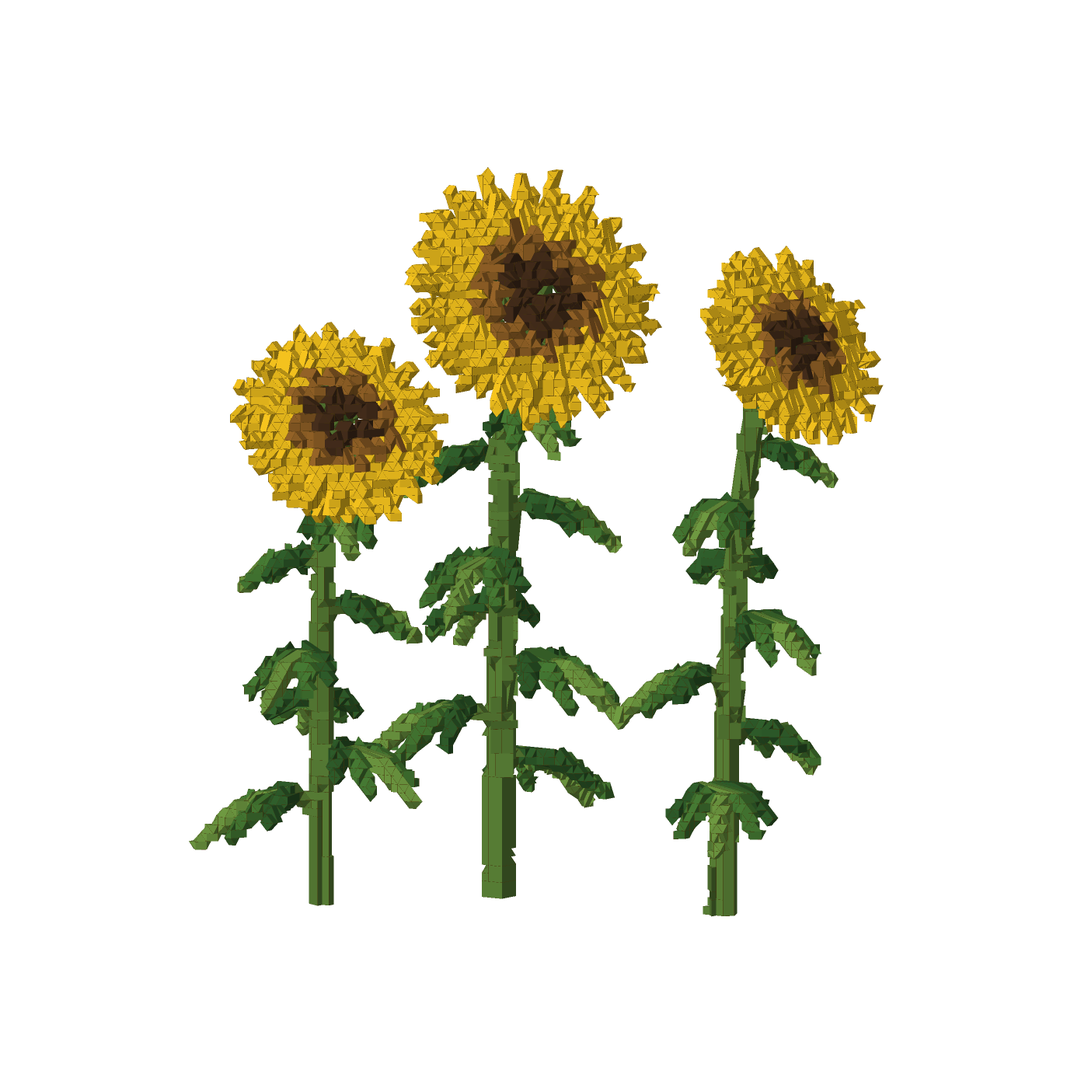
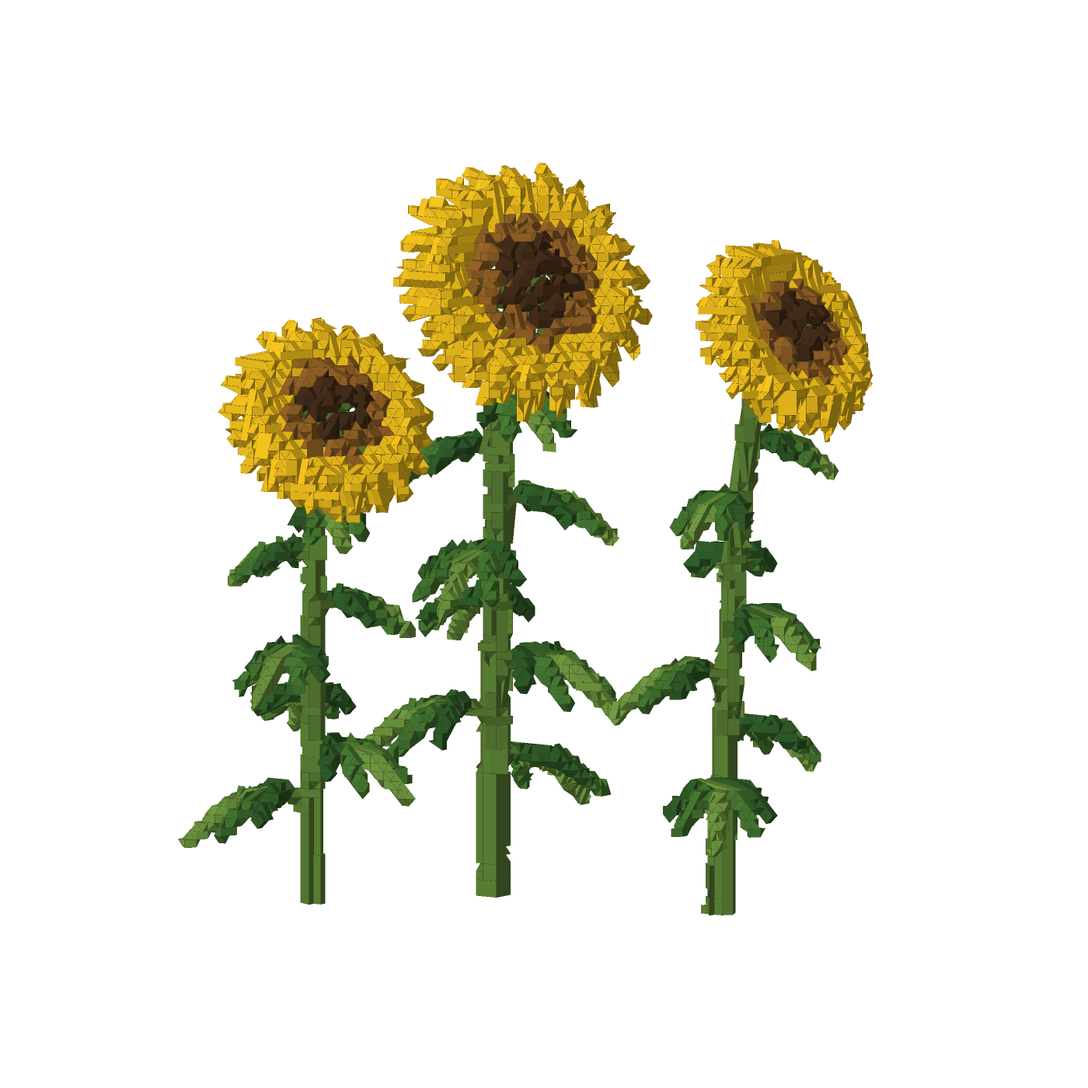
Docs, tool text and pictures for the new plants; the rose's picture gone

Changed region(s): [[0.1536, 0.1536, 0.8293, 0.86]]

diff --git a/core/src/tree.rs b/core/src/tree.rs
@@ -1474,7 +1474,7 @@ fn hedge(g: &mut Grown, tree: &Tree, height: f64, spread: f64, long: f64) {
         let (far, wide) = ((long - r - 1.7).max(0.0), (spread - r - 1.7).max(0.0));
         let at = DVec3::new(at.x.clamp(-far, far), at.y.clamp(-wide, wide), at.z.clamp(foot + r * 0.4, height - r * 0.8));
         g.leaves(at, DVec3::new(r, r, r * 0.8));
-        if tree.extras && g.unit() < 0.6 {
+        if tree.extras && g.unit() < 0.35 {
             berries(g, at, r * 0.8, at - outward * mass);
         }
     };
@@ -1934,7 +1934,7 @@ fn boxwood(g: &mut Grown, tree: &Tree, height: f64, spread: f64) {
         let at = heart + DVec3::new(level * way.cos(), level * way.sin(), up) * dome * (1.0 - loose * g.between(0.0, 0.3));
         let r = mass * g.between(0.75, 1.2);
         g.leaves(DVec3::new(at.x, at.y, at.z.max(r * 0.8)), DVec3::new(r, r, r * 0.8));
-        if tree.extras && g.unit() < 0.6 {
+        if tree.extras && g.unit() < 0.35 {
             berries(g, DVec3::new(at.x, at.y, at.z.max(r * 0.8)), r * 0.8, heart);
         }
     }

diff --git a/docs/algorithm.md b/docs/algorithm.md
@@ -1972,8 +1972,9 @@ A plant is one solid, fitted cell by cell (section 7.1) and coloured part
 by part ([core/src/tree.rs](../core/src/tree.rs)). The solid is the union
 of several thousand simple parts: tapered round branches, the eight-sided
 lengths of a palm's trunk, and balls of leaves. There are three trees (a
-pine, a palm and an oak), two bushes (a boxwood and a rose) and two
-flowers (a sunflower and a tulip). Each is grown by a method of its own,
+pine, a palm, an oak and a beech), three bushes (a boxwood, a hedge of it
+and a hydrangea), four flowers (a peony, a sunflower, a tulip and
+petunias) and a stand of reeds. Each is grown by a method of its own,
 because they differ in how they grow and a single rule general enough for
 all of them describes none of them closely. The trees come first below,
 and the bushes and flowers after them reuse their parts.
@@ -2209,9 +2210,36 @@ influences every branch near it, so changing one setting grows a
 different tree. Here a seed is one skeleton, and the height, spread and
 foliage can be changed while the tree stays recognisably itself.
 
+#### The beech, and bare trees
+
+<img src="images/tree-beech.png" width="330" alt="A beech in bricks: a smooth grey trunk carrying on up through a tall, dense crown of flat layers of leaves"> <img src="images/tree-beech-bare.png" width="330" alt="The same beech bare: the grey trunk and limbs ending in many short forking twigs">
+
+A beech is the oak's rule with other numbers
+([*Fagus sylvatica*](https://plants.ces.ncsu.edu/plants/fagus-sylvatica/common-name/european-beech)).
+Its smooth grey trunk carries on up through the crown as the thickest
+limb, where an oak's ends at the first fork. Its limbs wander half as
+much, are not pulled down, and leave the trunk at 43 to 63 degrees. Its
+crown is an oval about three quarters as wide as the tree is tall, widest
+a third of the way up. Its tufts of leaves are flatter, and branches up to
+three cells thick carry them, where only an oak's thinnest do, so the
+crown closes. The numbers are the `Habit` of each tree in
+[core/src/tree.rs](../core/src/tree.rs).
+
+**Bare** takes the leaves off an oak or a beech. A tree in leaf ends its
+branches where they are one cell thick, and the leaves hide the stop.
+Bare, each stop would be a stump. Every branch end is therefore carried
+on in twigs: a shoot that forks into two shorter ones, and those again,
+two forks deep on an oak and three on a beech, where a beech also carries
+its shoot straight on between the two. A twig cannot be thinner than a
+branch end, one cell being the least that is built, so twigs are told from
+branches by their number and shortness. A beech's are many, straight and
+close-angled, and an oak's fewer and crooked. The skeleton under them is
+the tree's own: the same seed bare and in leaf is the same tree, limb for
+limb.
+
 #### The bushes
 
-<img src="images/plant-boxwood.png" width="330" alt="A boxwood bush in bricks: a dense rounded mound of lumpy green foliage, lighter on top, on several short stems"> <img src="images/plant-rose.png" width="330" alt="A rose bush in bricks: arching green canes with tufts of leaves and pink blooms with yellow hearts on the outside">
+<img src="images/plant-boxwood.png" width="330" alt="A boxwood bush in bricks: a dense rounded mound of lumpy green foliage, lighter on top, on several short stems">
 
 A boxwood is a dense rounded evergreen, about as tall as it is wide, on
 several stems ([*Buxus sempervirens*](https://plants.ces.ncsu.edu/plants/buxus-sempervirens/)).
@@ -2228,17 +2256,42 @@ shrub left to grow. Builders of brick bushes get the same effect by
 turning each layer of leaves against the one below
 ([leafy bush tutorial](https://fullplatebuilds.com/2018/12/07/leafy-bush-tutorial/)).
 
-A rose is canes: long shoots from the ground that climb and then arch
-over, with the flowers at the ends of the canes and of their side shoots
-([roses](https://plants.ces.ncsu.edu/plants/rosa/)). A cane is a palm's
-frond stood on the ground. It leaves at 6 to 26 degrees from upright and
-turns over by a further $`\beta\,x^{1.6}`$ along its length, with
-$`\beta`$ set by **Arch of the canes**. The canes are set round the
-middle by the golden angle, grown at no particular size and stretched to
-the height and spread asked for. A tuft of leaves sits every few cells
-along the outer two thirds of a cane. A bloom sits on the outward side of
-some tufts and of every tip: a ball of petals about five cells across with
-a small heart of another colour facing outwards.
+A hedge is the boxwood clipped to a wall. It is a kind of its own and
+not a setting of the boxwood, because a bush is round and has a number of
+stems, and a hedge has a length and is a row of plants. Its outline is a
+long box, a little narrower at the top than at the foot, which is the
+"batter" a hedge is clipped to so that light reaches its base
+([pruning hedges](https://www.rhs.org.uk/plants/types/hedges/pruning-hedges)).
+The same tufts of leaves are set over the top, the two sides and the two
+ends in rows, each row half a step along from the last, and each tuft is
+set back by a random amount that **Looseness** scales: at none the hedge
+is freshly clipped, at full it has grown out. The inside is filled, and
+each plant of the row shows two or three stems under the leaves. The
+length is the form's thickness stretched along x, so a hedge of any length
+has the same texture all along it and takes as long to build as its
+surface is large.
+
+**Berries** puts small balls of another colour number just proud of the
+tufts of a boxwood or a hedge. A box has no berries: its fruit is a small
+brown capsule
+([*Buxus sempervirens*](https://plants.ces.ncsu.edu/plants/buxus-sempervirens/)).
+These are a holly's or a cotoneaster's, offered because a hedge in berry
+is wanted in a build.
+
+A hydrangea is a mophead
+([*Hydrangea macrophylla*](https://plants.ces.ncsu.edu/plants/hydrangea-macrophylla/)):
+a rounded shrub of broad leaves with large domed heads of flowers at the
+ends of its shoots. The shrub is the boxwood's with larger, fewer tufts.
+The heads stand over the upper two thirds of the dome, a golden angle
+apart. A head is not a ball. Its florets are set over a cap by Vogel's
+model, and each floret is four small balls in a cross about a middle of
+another colour, lying on the cap, because a real floret has four
+petal-like sepals. Four cells is the least a cross can be across, so a
+head has a few dozen florets where the plant's has some five hundred.
+The florets of a head take two colour numbers at random, which the sets
+paint as two tones of blue, pink or white, or as blue running to pink.
+
+<img src="images/plant-hedge.png" width="330" alt="A clipped box hedge in bricks, five times as long as it is thick, with red berries over its top and sides"> <img src="images/plant-hydrangea.png" width="330" alt="A hydrangea in bricks: a rounded bush of leaves on a few stems, carrying domed flower heads of small blue and pink florets">
 
 #### The flowers
 
@@ -2263,7 +2316,11 @@ golden angle on from the last, which packs them evenly at any size of
 head. Rings of seeds, the obvious alternative, leave gaps between the
 rings and line the seeds up in spokes. The inner seeds have one colour
 number and the outer ring another, the disc bulges a little in the middle,
-and its back is a coarser plate of the same pattern in green. Round the
+and its back is a coarser plate of the same pattern in green. The disc is
+a cushion a third as high in the middle as it is wide across its radius,
+and each petal is cupped forward where it leaves the disc and laid back at
+its tip, so the head has depth and a rolled rim. A flat disc with flat
+petals, which it was at first, read as a plate on a stick. Round the
 disc are the ray florets, the petals: 13, 21 or 34 of them by the size of
 the head, Fibonacci numbers as a real head's are, with a second row behind
 and between the first. Each petal is two round ribs side by side at its
@@ -2288,6 +2345,58 @@ outwards along their length.
 A clump of either flower is several plants from one seed. They stand
 round the first by Vogel's model again, each at its own height between
 60% and 96% of the tallest.
+
+A peony is the double kind
+([*Paeonia lactiflora*](https://en.wikipedia.org/wiki/Paeonia_lactiflora);
+[its flower forms](https://americanpeonysociety.org/?p=35)): a few broad
+guard petals outside, and inside them round after round of narrower ones.
+It opens from a hard round bud, through a soft ball, to a full-blown bowl.
+The petals are set by the golden angle, the innermost first, so that no
+petal stands behind another in any round. The petal numbered $`k`$ of
+$`N`$ has the place $`t = (k + \tfrac12)/N`$, 0 for the innermost and 1
+for a guard petal. It leaves the heart leaning out from the bloom's axis
+by $`\lambda`$ and curls back in by $`\kappa`$ along its length:
+
+```math
+\lambda = 0.25 + 0.5\,t + o\,(0.2 + 0.95\,t^{1.3}), \qquad \kappa = \left(1 - o\,(0.35 + 0.6\,t)\right)(1.5 + 0.9\,t)
+```
+
+in radians, where $`o`$ is **How open the bloom is**, from 0 to 1. At
+$`o = 0`$ every petal stands nearly upright and curls over hard, and the
+bloom is a ball. At $`o = 1`$ the guard petals lean right out and lie
+nearly straight, and each round inside leans and uncurls less, which is
+the bowl. One setting therefore takes the same petals from bud to full
+blown. A full bloom shows a heart of stamens in a third colour. The plant
+is a clump of stems from one crown, each with leaves of three lobed
+leaflets and one bloom.
+
+<img src="images/plant-peony.png" width="330" alt="Three pink peonies in bricks, full blown: bowls of many layered petals, darker towards the middle, on leafy stems"> <img src="images/plant-peony-bud.png" width="330" alt="The same peonies in bud: round balls of closed petals on the same stems">
+
+Petunias are a low mound of small leaves covered in funnel-shaped flowers
+([*Petunia x hybrida*](https://plants.ces.ncsu.edu/plants/petunia-x-hybrida/)).
+The flowers stand over the mound a golden angle apart, facing outwards and
+up. A flower is a short green tube, five lobes round its mouth, each
+leaning back so the face is a shallow funnel, and a throat of another
+colour number in the middle. **How far it trails** makes the mound smaller
+and sends stems out from under it along the ground, each ending in a tuft
+of leaves and a flower.
+
+#### Reeds
+
+<img src="images/plant-reeds.png" width="330" alt="A stand of bulrushes in bricks: thin green stems each with a brown sausage-shaped head and a pale spike above it, among long narrow leaves that flop at their tips"> <img src="images/plant-petunias.png" width="330" alt="A low mound of purple petunias in bricks, each flower five lobes round a dark throat, over green leaves">
+
+A stand of reeds is bulrushes
+([*Typha latifolia*](https://en.wikipedia.org/wiki/Typha_latifolia)), or
+with **Feathery plumes** the common reed
+([*Phragmites australis*](https://en.wikipedia.org/wiki/Phragmites_australis)).
+The bulrush is what a stand starts as because its brown sausage with the
+thin spike above it can be told at this size. A plume is a soft thing,
+and in bricks a soft thing is a rough lump. The stems are scattered evenly
+over an oval by Vogel's model stretched to the oval's two lengths, and
+like a hedge the stand has a length along x, for a bank. Every stem leans
+downwind by an amount of its own that **Sway** scales. The leaves spring
+low on the stem, stand nearly upright and flop outwards at the tip: the
+angle from upright grows with the cube of the way along the leaf.
 
 #### One colour for each part
 
@@ -2392,7 +2501,12 @@ At the usual sizes:
 | Palm | 120 tall, fronds 44 long | 1,149 | 16,753 | 0.36 s | 0.09 s |
 | Oak | 110 tall, 124 across | 3,283 | 40,092 | 1.1 s | 0.22 s |
 | Boxwood | 40 tall, 42 across | 1,065 | 8,513 | 0.23 s | 0.05 s |
-| Rose | 46 tall, 72 across | 533 | 7,143 | 0.16 s | 0.04 s |
+| Beech | 140 tall, 104 across | 4,293 | 48,667 | 1.2 s | 0.25 s |
+| Hedge, 72 long | 36 tall, 24 thick | 3,429 | 11,189 | 0.17 s | 0.07 s |
+| Hydrangea | 46 tall, 56 across | 1,373 | 17,227 | 0.31 s | 0.07 s |
+| Peonies, three | 56 tall | 1,057 | 3,751 | 0.19 s | 0.06 s |
+| Petunias | 20 tall, 52 across | 387 | 5,756 | 0.11 s | 0.03 s |
+| Reeds, 24 stems | 84 tall | 432 | 8,368 | 0.24 s | 0.07 s |
 | Sunflowers, three | 90 tall | 659 | 8,581 | 0.23 s | 0.06 s |
 | Tulips, five | 64 tall | 551 | 5,880 | 0.30 s | 0.10 s |
 
@@ -2813,8 +2927,9 @@ grid has an outline the two-dimensional fitter can fill.
 A tree, bush or flower is fitted cell by cell, the roughest method, so
 its trunk and limbs are stepped where a sphere's surface would be smooth,
 and its discrepancy is high (7.10). A sunflower's seeds are too few for
-its spirals to be counted, and a rose's bloom is a ball with a heart and
-has no petals of its own. Its smallest parts are two cells thick, so a
+its spirals to be counted. A hydrangea's head has a few dozen florets
+where the plant's has hundreds. A bare tree's twigs are as thick as its
+branch ends. Its smallest parts are two cells thick, so a
 tree under about 40 cells tall has room for an outline and little more.
 The leaves of an oak are balls of clusters and not leaves, and a pine's
 needles are the shoots that carry them. A tree is not its own mirror

diff --git a/docs/features.md b/docs/features.md
@@ -46,7 +46,7 @@ until you tick it.
 | **Revolve** | a profile, spun about the upright through its first point | Solid, or a shell along the profile. |
 | **Pyramid** | the middle of its base | Half its base, stretch along x and y, height; solid or a hollow tent. |
 | **Cube** | its middle, and a dot on each of its six sides | A size along each of x, y and z, in whole microbricks; solid or hollow (see [The cube](#the-cube)). |
-| **Plant** | the foot of its trunk or stem | Kind: a pine, palm or oak tree, a boxwood or rose bush, a sunflower or a tulip. Height, spread, three settings of its own and a seed (see [Plants](#plants)). |
+| **Plant** | the foot of its trunk or stem | Kind: a pine, palm, oak or beech tree; a boxwood bush, a hedge or a hydrangea; a peony, a sunflower, a tulip or petunias; reeds. Height, spread, three settings of its own and a seed (see [Plants](#plants)). |
 
 ### The cube
 
@@ -341,7 +341,8 @@ stone.
 ## Plants
 
 **Plant** grows a tree, a bush or a flower: a pine, a palm or an oak; a
-boxwood or a rose bush; sunflowers or tulips. They are one form with a
+beech; a boxwood bush, a hedge or a hydrangea; peonies, sunflowers,
+tulips or petunias; a stand of reeds. They are one form with a
 **Kind** because they are set and coloured the same way: a height, a
 spread, three settings and a seed. Each kind is grown by a method of its
 own, from the facts of how that plant grows: how they are made is in
@@ -355,11 +356,16 @@ own, from the facts of how that plant grows: how they are made is in
 | **Palm** | a coconut palm: a slender, ringed, eight-sided trunk, swollen at the foot, that leans and curves upright, and one crown of arching fronds with a row of leaflets down each side |
 | **Oak** | an oak grown in the open: a short thick trunk, flared at the foot, dividing into heavy crooked limbs that spread wide and fork again and again, with leaves in separate masses at the ends of the branches |
 | **Boxwood bush** | a dense rounded evergreen: a closed, lumpy mound of leaves on several short stems |
-| **Rose bush** | long canes from the ground that climb and arch over, with tufts of leaves along them and blooms on the outside |
+| **Beech tree** | a smooth grey trunk carrying on up through a tall, dense, oval crown of flat layers of leaves |
+| **Hedge** | the boxwood clipped to a wall of any length, a little narrower at the top, with stems showing at its foot |
+| **Hydrangea** | a rounded bush of broad leaves carrying domed heads of small four-parted florets |
+| **Peony** | a clump of leafy stems each with one bloom of many layered petals, which opens from a round bud to a full bowl |
+| **Petunias** | a low mound of leaves covered in funnel-shaped flowers with darker throats, which can trail along the ground |
+| **Reeds** | a stand of bulrushes with brown heads, or of plumed common reed, with long flopping leaves |
 | **Sunflower** | a stout stem with heart-shaped leaves and a nodding head: a disc of seeds set by the golden angle, ringed with two rows of petals |
 | **Tulip** | a cup of six petals in two rings on a bare stem, with strap-shaped leaves from the ground |
 
-<img src="images/plant-rose.png" width="330" alt="A rose bush with pink blooms"> <img src="images/plant-sunflowers.png" width="330" alt="Three sunflowers of different heights facing the same way">
+<img src="images/plant-peony.png" width="330" alt="Three pink peonies, full blown"> <img src="images/plant-sunflowers.png" width="330" alt="Three sunflowers of different heights facing the same way">
 
 Every tree has a **Height** and a **Spread** (a palm's is its **Frond
 length**), which the dot at its top and the dot at its side set too. Three
@@ -369,15 +375,28 @@ more settings mean something different for each kind.
 |---|---|---|---|---|
 | Pine | **Tiers of boughs**, 4 to 40 | **Fullness**: more boughs, wider sprays | **Droop** of the boughs | **A star and baubles** |
 | Palm | **Fronds**, 5 to 40 | **Leaflet length** | **Lean** of the trunk | **Coconuts** |
-| Oak | **Main limbs**, 2 to 7 | **Foliage**: larger masses of leaves, less sky | **Gnarl**: how crooked the limbs are | none |
-| Boxwood | **Stems**, 2 to 12 | **Density** of the canopy | **Looseness** of its outline | none |
-| Rose | **Canes**, 3 to 16 | **Leaves and blooms** | **Arch of the canes** | **In flower** |
+| Oak | **Main limbs**, 2 to 7 | **Foliage**: larger masses of leaves, less sky | **Gnarl**: how crooked the limbs are | **Bare** |
+| Boxwood | **Stems**, 2 to 12 | **Density** of the canopy | **Looseness** of its outline | **Berries** |
+| Beech | **Main limbs**, 3 to 9 | **Foliage** | **Crookedness** | **Bare** |
+| Hedge | **Plants along it**, 1 to 40 | **Density** | **Looseness**: clipped to grown out | **Berries** |
+| Hydrangea | **Flower heads**, 1 to 24 | **Leaves** | **Looseness** | none |
+| Peony | **Stems in the clump**, 1 to 9 | **Petals and leaves** | **How open the bloom is**: bud to full blown | none |
+| Petunias | **Flowers**, 3 to 80 | **Leaves** | **How far it trails** | none |
+| Reeds | **Stems**, 1 to 120 | **Leaves** | **Sway** | **Feathery plumes** |
 | Sunflower | **Flowers in the clump**, 1 to 12 | **Petal and leaf size** | **Nod of the head** | none |
 | Tulip | **Flowers in the clump**, 1 to 12 | **Leaf size** | **How open the cup is** | none |
 
-A flower's **Spread** is half the width of its head or cup, and a clump
-is as many flowers as you ask for, each its own height, standing a little
-apart.
+A flower's **Spread** is half the width of its head, cup or bloom, and a
+clump is as many flowers as you ask for, each its own height.
+
+A hedge and a stand of reeds have a **Length** as well, along X, from
+their own thickness upwards. The hedge keeps its clipped texture and its
+stems at intervals however long it is. A quarter turn about Z runs it the
+other way. There is no dot for the length yet: the slider sets it.
+
+**Bare** shows an oak or a beech without its leaves, with twigs carried
+on from every branch end. It is the same tree as in leaf. **Berries** on
+a boxwood or hedge take the seventh colour of its set.
 
 **Seed** is which plant of its kind: any whole number, each a different
 one, and the same number is always the same plant. **Another** takes the
@@ -386,8 +405,8 @@ gives without making it a different tree.
 
 **Colours** offers each kind's sets of colours: for a pine spruce green,
 under snow, blue spruce and in frost; for a palm three; for an oak summer,
-early autumn, late autumn and spring; for a rose pink, red, white, yellow
-and a hydrangea's blue; for a tulip six, one of them flamed. A tree is coloured **As the pattern
+early autumn, late autumn and spring; for a peony pink, deep red, white, coral and blush; for a hydrangea blue,
+pink, white and blue running to pink; for a tulip six, one of them flamed. A tree is coloured **As the pattern
 has it**, with a colour for each of its parts: the trunk, leaves, leaves
 in shade, new growth, limbs, the top of a pine's boughs or the rib of a
 frond or a flower's petals, and two for the extras, the blooms or the

diff --git a/docs/future-work.md b/docs/future-work.md
@@ -133,15 +133,17 @@ What remains:
 ## More plants
 
 Three trees, two bushes and two flowers are built: a pine, a palm and an
-oak, a boxwood and a rose, sunflowers and tulips, each grown by its own
+oak and a beech, a boxwood, a hedge and a hydrangea, peonies, sunflowers,
+tulips and petunias, and reeds, each grown by its own
 method ([algorithm.md](algorithm.md), section 7.10). What remains:
 
 - **More bushes.** A hedge is the boxwood's canopy held inside a box in
   place of a dome. An upright or spiky plant (a juniper, a yucca, an
   agave) needs a rule of its own, a rosette of stiff blades, which the
-  tulip's leaves are a start on. A hydrangea or rhododendron is the rose
-  with a rounder habit and its blooms in large heads at the ends of the
-  shoots.
+  tulip's leaves are a start on. A rose bush was built and taken out: its blooms were
+  balls, and a rose needs petals in a spiral, as the peony now has. A hedge
+  that turns a corner or follows a curve, and a dot to drag a hedge's
+  length by, are not there.
 - **More flowers.** A daisy is a small sunflower. A lily or a daffodil
   needs a trumpet, and a rose seen close needs petals in a spiral, which
   the golden angle would place. A bed of mixed flowers would be several
@@ -152,9 +154,9 @@ method ([algorithm.md](algorithm.md), section 7.10). What remains:
   with a thicker trunk and stiffer fronds. A Scots pine needs a rule the
   pine does not have, for a crown that loses its lower boughs and flattens
   with age.
-- **A bare tree.** The oak's skeleton is complete without its leaves, and
-  a winter oak is a setting away. Its twigs stop at one cell thick, so a
-  bare crown would be coarser than a real one.
+- **Finer bare trees.** A bare oak or beech carries twigs on from its
+  branch ends, but a twig is as thick as a branch end, one cell, so the
+  crown is coarser than a real one. A larger tree is finer.
 - **Smoother limbs.** A tree is fitted cell by cell. Its trunk and limbs
   are round tubes along curves, which the pipe and lifted-tube layouts
   build with far fewer steps (sections 7.5 and 7.7). Building the limbs

diff --git a/docs/mcp.md b/docs/mcp.md
@@ -139,14 +139,18 @@ A colour has a `mode` (`one`, `blend`, `stripes` or `pattern`), one to eight
 gives it: the first colour is the ground or the mortar, and the others are
 shared among the pattern's parts.
 
-`tree` names the kind first: `pine`, `palm`, `oak`, `boxwood`, `rose`,
-`sunflower` or `tulip`. Whatever follows it replaces that kind's usual
+`tree` names the kind first: `pine`, `palm`, `oak`, `beech`, `boxwood`,
+`hedge`, `hydrangea`, `peony`, `sunflower`, `tulip`, `petunia` or `reeds`
+(`rose`, a kind that is gone, is read as `peony`). Whatever follows it replaces that kind's usual
 settings in order: the seed, how full (0 to 100), how many (a pine's
-tiers, a palm's fronds, an oak's main limbs, a boxwood's stems, a rose's
-canes, the flowers in a clump), how bent (0 to 100: a pine's droop, a
-palm's lean, an oak's gnarl, a rose's arch, a sunflower's nod, how open a
-tulip is) and 1 or 0 for its extras (a star and baubles, coconuts, a
-rose's blooms). The form may be written `tree` or `plant`. `"tree": "oak"` is the oak as the editor starts one and
+tiers, a palm's fronds, an oak's main limbs, a boxwood's stems, the plants
+along a hedge, a hydrangea's heads, the flowers in a clump, a stand's
+stems), how bent (0 to 100: a pine's droop, a
+palm's lean, an oak's gnarl, a hedge's looseness, how open a peony or a
+tulip is, a sunflower's nod, how far petunias trail, reeds' sway) and 1 or 0 for its extras (a star and baubles, coconuts,
+an oak or beech bare, berries on a boxwood or hedge, plumes on reeds). A
+hedge or a stand of reeds is `stretch` `[n, 1, 1]` times as long along x
+as it is thick, three times if `stretch` is not given. The form may be written `tree` or `plant`. `"tree": "oak"` is the oak as the editor starts one and
 `"tree": ["palm", 3]` the third palm. A tree's height is `rise` and its
 spread `radius`. Added with neither, it is its usual size, a pine 140
 microbricks tall, and comes in its kind's own eight colours with the mode

diff --git a/README.md b/README.md
@@ -68,7 +68,7 @@ build while you watch (see [docs/mcp.md](docs/mcp.md)).
 | Revolve | a profile spun about an upright axis: vases, bells, bowls |
 | Pyramid | a base and a height: solid, or a hollow tent |
 | Cube | a box with a length along each axis: a block, a floor, a wall, or a hollow room |
-| Plant | a tree, a bush or a flower grown from a seed: a pine, a palm, an oak, a boxwood, a rose, sunflowers, tulips |
+| Plant | a tree, a bush or a flower grown from a seed: a pine, a palm, an oak, a beech, a boxwood, a hedge, a hydrangea, peonies, sunflowers, tulips, petunias, reeds |
 
 Curves are built as a flat band or as a round tube. Every form can be
 stretched, mirrored, turned, pulled out of shape at any point, coloured, and

diff --git a/docs/performance.md b/docs/performance.md
@@ -28,7 +28,8 @@ these wherever a build shares its work out (see [Threads](#threads)).
 | Pine tree, 140 tall | 1.1 s (0.21 s on 16 threads) | 33,643 | 15.3% |
 | Palm tree, 120 tall | 0.36 s (0.09 s) | 16,753 | 18.7% |
 | Oak tree, 110 tall, 124 across | 1.1 s (0.22 s) | 40,092 | 7.1% |
-| Rose bush, 46 tall | 0.16 s (0.04 s) | 7,143 | 9.7% |
+| Beech tree, 140 tall | 1.2 s (0.25 s) | 48,667 | 6.8% |
+| Hedge, 36 tall, 72 long | 0.17 s (0.07 s) | 11,189 | 3.1% |
 | Three sunflowers, 90 tall | 0.23 s (0.06 s) | 8,581 | 16.5% |
 
 The ordinary forms fit in tens of milliseconds and a large solid sphere in
